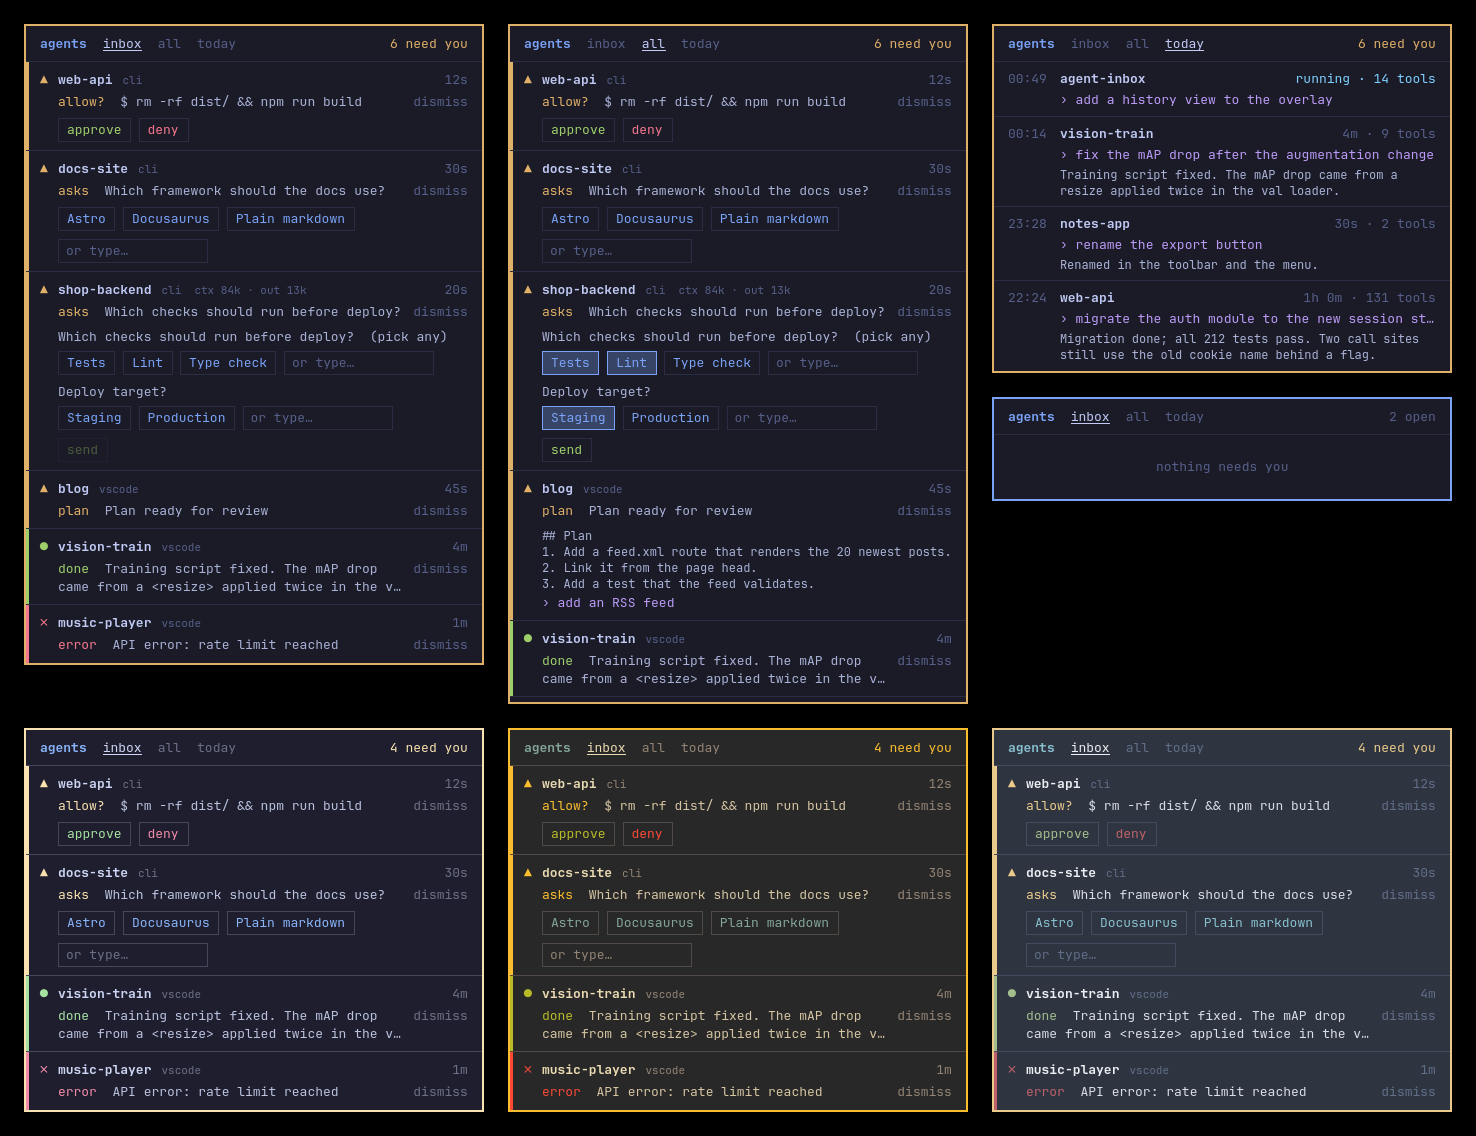
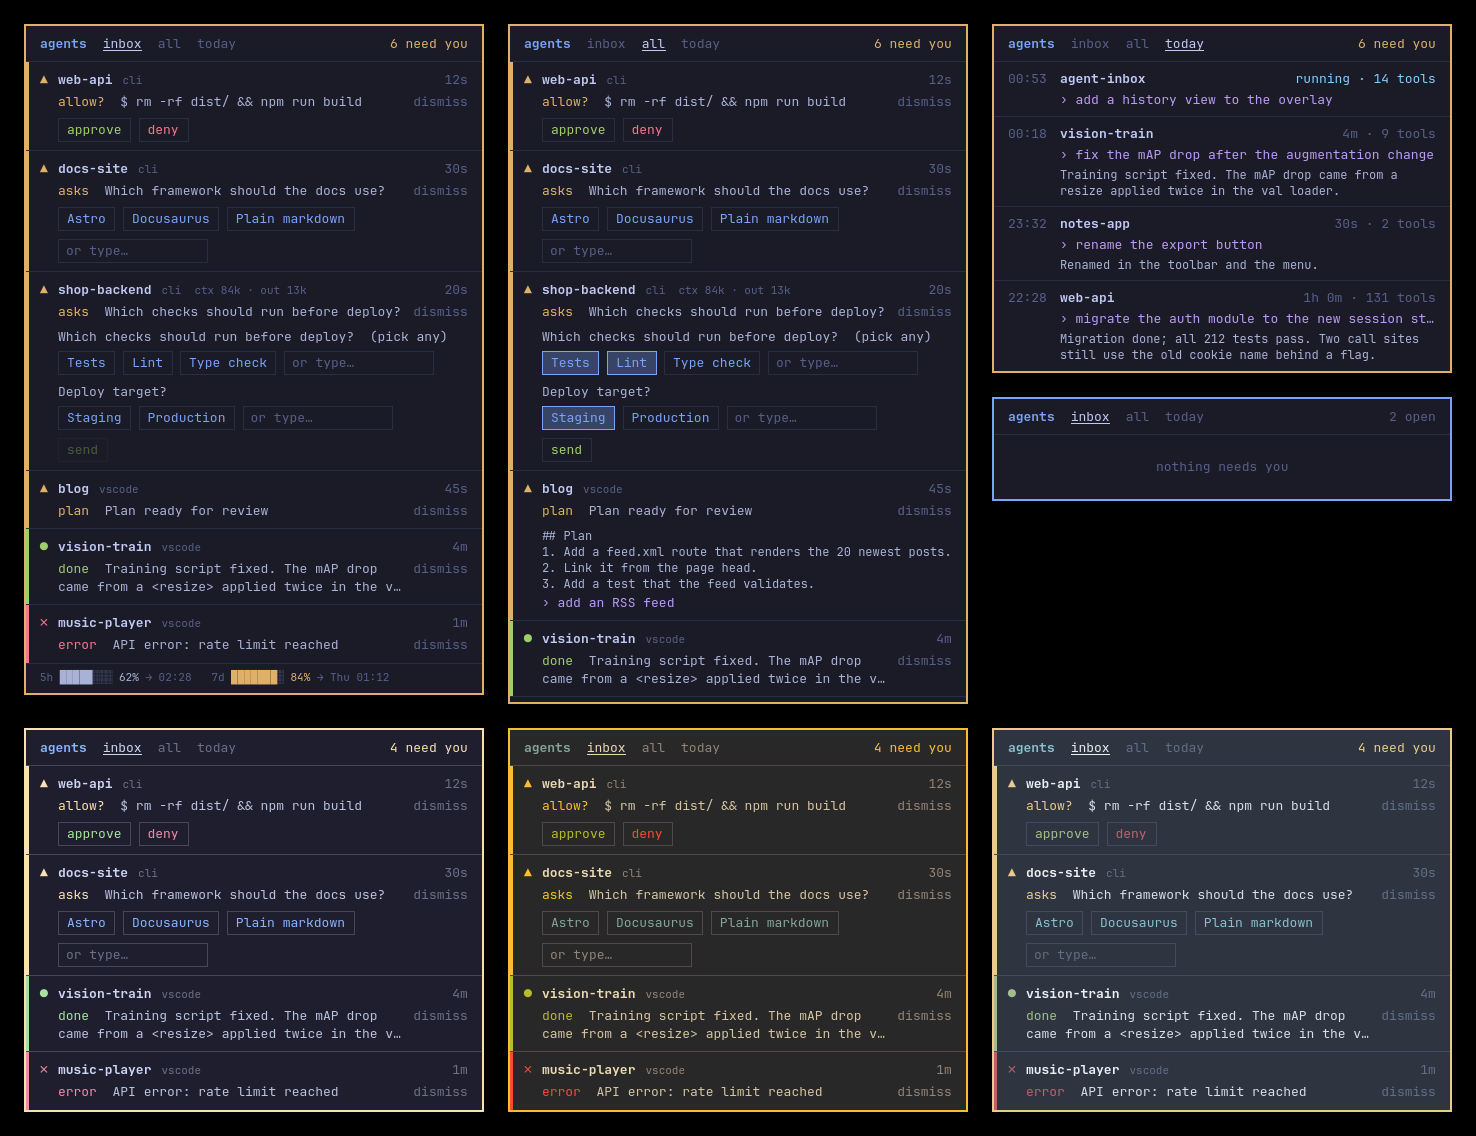
Plan usage: status line script, overlay footer, warning at a threshold
Claude Code only exposes plan usage to a status line command, so the
installer adds one (unless the user already has their own). It prints
model, context and usage, and forwards the numbers to the daemon. The
overlay shows 5-hour and 7-day usage bars and a notification fires when
usage crosses usage_warn.

Changed region(s): [[0.0, 0.5854, 0.3428, 0.6162]]

diff --git a/ui/Panel.qml b/ui/Panel.qml
@@ -7,6 +7,7 @@ Rectangle {
     property var sessions: []
     property string view: "inbox"   // inbox | all | today
     property var history: []        // today's turns, newest first (only filled in the today view)
+    property var limits: ({})       // plan usage: five_hour / seven_day -> {pct, resets_at}, plus warn
     property int maxBody: 640       // the list scrolls beyond this height
     property var open: ({})         // session id -> expanded
     signal command(string cmd, string session, string label)
@@ -69,6 +70,15 @@ Rectangle {
     function dur(s) {
         s = Math.max(0, Math.round(s))
         return s < 60 ? s + "s" : s < 3600 ? Math.floor(s / 60) + "m" : Math.floor(s / 3600) + "h " + Math.floor(s % 3600 / 60) + "m"
+    }
+    function usage(key, name) {
+        const w = limits[key]
+        if (!w) return ""
+        const cells = Math.min(8, Math.round(w.pct / 12.5))
+        const col = w.pct >= 95 ? cRed : w.pct >= (limits.warn || 80) ? cAmber : cSoft
+        const day = key === "seven_day" ? ["Sun", "Mon", "Tue", "Wed", "Thu", "Fri", "Sat"][new Date(w.resets_at * 1000).getDay()] + " " : ""
+        return name + " <font color='" + col + "'>" + "█".repeat(cells) + "</font>" + "░".repeat(8 - cells)
+             + " <font color='" + col + "'>" + w.pct + "%</font> → " + day + clock(w.resets_at).slice(0, 5)
     }
     function clock(t) { return new Date(t * 1000).toTimeString().slice(0, 8) }
     function esc(t) { return String(t || "").replace(/&/g, "&amp;").replace(/</g, "&lt;").replace(/>/g, "&gt;") }
@@ -293,7 +303,7 @@ Rectangle {
                                 Label {
                                     anchors.left: name.right; anchors.leftMargin: 10; anchors.baseline: name.baseline
                                     text: (row.s.entry || "").replace("claude-", "") + (row.s.subagents ? "  +" + row.s.subagents + " agents" : "")
-                                          + (row.s.ctx_tokens ? "  ctx " + panel.k(row.s.ctx_tokens) + " · out " + panel.k(row.s.out_tokens) : "")
+                                          + (row.s.ctx_tokens ? "  ctx " + panel.k(row.s.ctx_tokens) + (row.s.ctx_pct ? " " + row.s.ctx_pct + "%" : "") + " · out " + panel.k(row.s.out_tokens) : "")
                                     color: panel.cDim; font.pixelSize: 11
                                 }
                                 Label {
@@ -482,6 +492,21 @@ Rectangle {
                         }
                     }
                 }
+            }
+        }
+
+        // ---- plan usage
+        Item {
+            visible: !!(panel.limits.five_hour || panel.limits.seven_day)
+            width: parent.width; height: 30
+            Rectangle { width: parent.width; height: 1; color: panel.cLine }
+            Label {
+                x: 14; width: parent.width - 28
+                anchors.verticalCenter: parent.verticalCenter
+                textFormat: Text.StyledText
+                font.pixelSize: 11; color: panel.cDim
+                elide: Text.ElideRight
+                text: [panel.usage("five_hour", "5h"), panel.usage("seven_day", "7d")].filter(x => x).join("&nbsp;&nbsp;&nbsp;")
             }
         }
     }

diff --git a/ui/Preview.qml b/ui/Preview.qml
@@ -55,7 +55,7 @@ Window {
         padding: 24; spacing: 24
         Row {
             spacing: 24
-            Panel { sessions: win.mock; view: "inbox" }
+            Panel { sessions: win.mock; view: "inbox"; limits: ({ five_hour: { pct: 62, resets_at: win.t + 5400 }, seven_day: { pct: 84, resets_at: win.t + 260000 }, warn: 80 }) }
             Panel { sessions: win.mock; view: "all"; open: ({ c3: true, h8: true }); picks: ({ g7: [["Tests", "Lint"], ["Staging"]] }) }
             Column {
                 spacing: 24

diff --git a/ui/Overlay.qml b/ui/Overlay.qml
@@ -31,6 +31,7 @@ Window {
         id: panel
         sessions: backend.sessions
         history: backend.history
+        limits: backend.limits
         theme: backend.config.theme || "tokyo-night"
         width: backend.config.width || 460
         fontFamily: backend.config.font || ""

diff --git a/daemon/daemon.py b/daemon/daemon.py
@@ -3,6 +3,7 @@
 
 One unix socket, newline-delimited JSON. The first line of a connection sets its role:
   {"kind":"event","event":{...}}         from the hook script
+  {"kind":"status","status":{...}}       from the status line script: plan usage and context share
   {"kind":"ask","event":{...}}           a PermissionRequest; the hook waits for {"decision":...} or EOF
   {"kind":"cmd","cmd":"toggle",...}      one command, one snapshot reply
   {"kind":"subscribe","role":"overlay"}  snapshot on every change; further lines are commands
@@ -35,6 +36,7 @@ DEFAULTS = {
     "done_min_turn": 30,  # s a turn must run before "finished" counts as needing you
     "keep_days": 14,  # event log retention
     "sound": True,  # play a short sound when the overlay pops up
+    "usage_warn": 80,  # % of the 5-hour or 7-day plan limit that triggers a warning
     "theme": "tokyo-night",  # tokyo-night | catppuccin | gruvbox | nord
 }
 STALE_HOURS = 6  # drop sessions with unknown pid after this long without events
@@ -85,6 +87,8 @@ class Daemon:
         self.usage = {}  # session id -> {"pos", "out", "ctx", "at"}: transcript reading state
         self.pending = {}  # session id -> {"fut", "ts", "input"}: a hook waiting for an answer
         self.ui = {"visible": False, "view": "inbox", "auto": False}  # view: inbox | all | today
+        self.limits = {}  # "five_hour" / "seven_day" -> {"pct", "resets_at"}, from the status line
+        self.warned = {}  # window -> resets_at already warned about
         self.history = []  # today's turns, only kept fresh while the "today" view is open
 
     # ---- state out
@@ -95,6 +99,7 @@ class Daemon:
             "type": "state", "now": time.time(), "ui": self.ui, "config": look,
             "sessions": [asdict(s) for s in ss],
             "history": self.history if self.ui["view"] == "today" else [],
+            "limits": {**{k: w for k, w in self.limits.items() if w["resets_at"] > time.time()}, "warn": self.cfg["usage_warn"]},
         }  # fmt: skip
 
     def load_history(self):
@@ -185,6 +190,29 @@ class Daemon:
                 asyncio.get_running_loop().call_later(delay, self.alert, sid, s.attention["ts"])
         self.settle()
         self.broadcast()
+
+    def on_status(self, st):
+        """Plan usage is account-wide, so the latest report from any session wins."""
+        before = json.dumps(self.limits)
+        for key, name in (("five_hour", "5-hour"), ("seven_day", "7-day")):
+            w = (st.get("rate_limits") or {}).get(key)
+            if not isinstance(w, dict) or w.get("used_percentage") is None:
+                continue
+            pct, resets = round(float(w["used_percentage"])), w.get("resets_at") or 0
+            self.limits[key] = {"pct": pct, "resets_at": resets}
+            if pct >= self.cfg["usage_warn"] and self.warned.get(key) != resets:
+                self.warned[key] = resets
+                when = time.strftime("%a %H:%M", time.localtime(resets))
+                asyncio.ensure_future(notify(f"Claude usage: {name} limit at {pct}%", f"Resets {when}"))
+                if self.cfg["sound"]:
+                    asyncio.ensure_future(play("dialog-warning"))
+        s = self.sessions.get(st.get("session_id"))
+        ctx = st.get("ctx_pct")
+        changed = json.dumps(self.limits) != before
+        if s and ctx is not None and s.ctx_pct != round(ctx):
+            s.ctx_pct, changed = round(ctx), True
+        if changed:
+            self.broadcast()
 
     def read_usage(self, s, path, now, force):
         """Token counts from the session transcript, read incrementally."""
@@ -321,6 +349,8 @@ class Daemon:
             kind = m.get("kind")
             if kind == "event":
                 self.on_event(m.get("event") or {})
+            elif kind == "status":
+                self.on_status(m.get("status") or {})
             elif kind == "ask":
                 await self.ask(m.get("event") or {}, r, w)
             elif kind == "cmd":

diff --git a/install.py b/install.py
@@ -23,9 +23,11 @@ DAEMON_UNIT = UNITS / "agent-inbox.service"
 OVERLAY_UNIT = UNITS / "agent-inbox-overlay.service"
 LINK = HOME / ".local/bin/agent-inbox"
 MARK = "agent_inbox_hook.py"
+STATUS_MARK = "agent_inbox_statusline.py"
 # The system interpreter is the one distro PySide6 packages install into.
 PY = "/usr/bin/python3" if os.path.exists("/usr/bin/python3") else sys.executable
 CMD = f"{PY} -I -S {shlex.quote(str(ROOT / 'hook' / MARK))} || true"
+STATUS_CMD = f"{PY} -I -S {shlex.quote(str(ROOT / 'hook' / STATUS_MARK))}"
 EVENTS = [
     "SessionStart", "UserPromptSubmit", "PreToolUse", "PermissionRequest", "PermissionDenied",
     "PostToolUse", "PostToolUseFailure", "Notification", "SubagentStart", "SubagentStop",
@@ -60,8 +62,19 @@ def edit_hooks(add):
         settings["hooks"] = hooks
     else:
         settings.pop("hooks", None)
+    # Plan usage only reaches us through the status line. Never replace someone's own.
+    line = settings.get("statusLine")
+    ours = isinstance(line, dict) and STATUS_MARK in line.get("command", "")
+    kept_other = False
+    if add and (line is None or ours):
+        settings["statusLine"] = {"type": "command", "command": STATUS_CMD}
+    elif add:
+        kept_other = True
+    elif ours:
+        del settings["statusLine"]
     SETTINGS.parent.mkdir(parents=True, exist_ok=True)
     SETTINGS.write_text(json.dumps(settings, indent=2) + "\n")
+    return kept_other
 
 
 def check():
@@ -115,7 +128,11 @@ def install():
     LINK.parent.mkdir(parents=True, exist_ok=True)
     LINK.unlink(missing_ok=True)
     LINK.symlink_to(ROOT / "bin/agent-inbox")
-    edit_hooks(add=True)
+    if edit_hooks(add=True):
+        problems.append(
+            "You already have a custom status line, so it was left alone and the plan-usage display is off. "
+            f"To turn it on, pipe your status line's input through {ROOT / 'hook' / STATUS_MARK} as well."
+        )
     print(f"Installed.\n  hooks:    {SETTINGS} (backup: {BACKUP.name})\n  services: {', '.join(units)}\n  command:  {LINK}")
     print("Bind `agent-inbox toggle` to a key to show and hide the overlay.")
     for p in problems:

diff --git a/hook/agent_inbox_statusline.py b/hook/agent_inbox_statusline.py
@@ -1,0 +1,40 @@
+#!/usr/bin/python3
+"""Claude Code status line: prints model, context and plan usage, and passes the
+plan usage on to the agent-inbox daemon (the status line is the only place Claude
+Code exposes it).
+"""
+import json
+import os
+import socket
+import sys
+
+SOCK = os.environ.get("XDG_RUNTIME_DIR", f"/run/user/{os.getuid()}") + "/agent-inbox.sock"
+
+
+def main():
+    d = json.load(sys.stdin)
+    limits = d.get("rate_limits") or {}
+    ctx = (d.get("context_window") or {}).get("used_percentage")
+    parts = [(d.get("model") or {}).get("display_name") or "Claude"]
+    if ctx is not None:
+        parts.append(f"ctx {ctx:.0f}%")
+    for key, name in (("five_hour", "5h"), ("seven_day", "7d")):
+        pct = (limits.get(key) or {}).get("used_percentage")
+        if pct is not None:
+            parts.append(f"{name} {pct:.0f}%")
+    print(" · ".join(parts), flush=True)
+
+    status = {"session_id": d.get("session_id"), "rate_limits": limits, "ctx_pct": ctx}
+    s = socket.socket(socket.AF_UNIX, socket.SOCK_STREAM)
+    s.settimeout(1)
+    s.connect(SOCK)
+    s.sendall((json.dumps({"kind": "status", "status": status}) + "\n").encode())
+    s.close()
+
+
+if __name__ == "__main__":
+    try:
+        main()
+    except BaseException:
+        pass
+    sys.exit(0)

diff --git a/ui/overlay.py b/ui/overlay.py
@@ -19,6 +19,7 @@ class Backend(QObject):
     def __init__(self):
         super().__init__()
         self._sessions, self._visible, self._view, self._config, self._history = [], False, "inbox", {}, []
+        self._limits = {}
         self.sock = QLocalSocket(self)
         self.sock.connected.connect(lambda: self._write({"kind": "subscribe", "role": "overlay"}))
         self.sock.readyRead.connect(self._read)
@@ -46,6 +47,7 @@ class Backend(QObject):
                 self._view = snap["ui"]["view"]
                 self._config = snap.get("config") or {}
                 self._history = snap.get("history") or []
+                self._limits = snap.get("limits") or {}
         self.changed.emit()
 
     def _write(self, msg):
@@ -55,6 +57,10 @@ class Backend(QObject):
     @Property("QVariantList", notify=changed)
     def sessions(self):
         return self._sessions
+
+    @Property("QVariantMap", notify=changed)
+    def limits(self):
+        return self._limits
 
     @Property("QVariantList", notify=changed)
     def history(self):

diff --git a/daemon/state.py b/daemon/state.py
@@ -73,6 +73,7 @@ class Session:
     subagents: int = 0
     ctx_tokens: int = 0  # size of the context sent with the latest request
     out_tokens: int = 0  # output tokens over the whole session
+    ctx_pct: int = 0  # share of the context window in use, from the status line
     ended: bool = False
 
     @classmethod

diff --git a/README.md b/README.md
@@ -10,6 +10,7 @@ A floating overlay for Linux that shows what your open Claude Code sessions are 
 - **Token counts.** Each card shows the session's current context size and total output tokens.
 - **Today.** A third tab lists today's turns across all projects: when, how long, how many tool calls, the prompt and how it ended.
 - **Themes.** Tokyo Night, Catppuccin, Gruvbox and Nord.
+- **Plan usage.** On Pro and Max plans the overlay shows how much of the 5-hour and 7-day limits you have used, and warns you when you cross a threshold.
 - **Stays out of the way.** Sits above other windows, only takes keyboard focus when you click a reply box, hides itself when nothing needs you.
 - **Local only.** One unix socket, no network port, no telemetry.
 
@@ -42,6 +43,7 @@ This does three things, all reversed by `python3 install.py uninstall`:
 | Change | Where |
 |---|---|
 | Hook entries (your existing settings are kept, a backup is made first) | `~/.claude/settings.json` |
+| A status line showing model, context and plan usage (only if you have none) | `~/.claude/settings.json` |
 | Two user services: daemon and overlay | `~/.config/systemd/user/agent-inbox*.service` |
 | The `agent-inbox` command | `~/.local/bin/agent-inbox` |
 
@@ -104,7 +106,8 @@ Optional. Create `~/.config/agent-inbox/config.json` with any of these keys (def
   "done_min_turn": 30,
   "keep_days": 14,
   "sound": true,
-  "theme": "tokyo-night"
+  "theme": "tokyo-night",
+  "usage_warn": 80
 }
 ```
 
@@ -114,6 +117,7 @@ Optional. Create `~/.config/agent-inbox/config.json` with any of these keys (def
 - `done_min_turn`: seconds a turn must run before "finished" counts as needing you.
 - `keep_days`: how long the event log is kept.
 - `theme`: `tokyo-night`, `catppuccin`, `gruvbox` or `nord`.
+- `usage_warn`: percentage of the 5-hour or 7-day plan limit at which you get a warning notification.
 - `sound`: play a short sound when the overlay pops up (needs `pw-play` or `paplay` and the freedesktop sound theme).
 
 ## How it works
@@ -125,6 +129,10 @@ Claude Code hooks -> hook/agent_inbox_hook.py -> unix socket -> daemon/daemon.py
 - **Hook script.** Forwards each hook event to the daemon and exits. It runs in the background, takes about 15 ms, and exits cleanly if the daemon is not running, so it never slows or blocks the agent. The one hook that waits is the permission request: it holds on for an answer from the overlay while Claude Code shows its own prompt as usual.
 - **Daemon.** Keeps one state per session (`daemon/state.py`, a small pure state machine), decides what needs attention and when to pop the overlay up, and removes sessions whose process has gone.
 - **Overlay.** A PySide6/QML window placed with layer-shell. `ui/Panel.qml` is the whole look; `ui/Preview.qml` renders it with sample data.
+
+## Plan usage and the status line
+
+Claude Code only exposes plan usage to a status line script, so the installer sets one up: a row at the bottom of each terminal session such as `Fable 5.2 · ctx 34% · 5h 62% · 7d 41%`. The same numbers appear at the bottom of the overlay. They show up after a session's first response, and only on claude.ai subscription plans. If you already have a status line it is left untouched and this feature stays off. To remove ours, delete the `statusLine` entry from `~/.claude/settings.json`.
 
 ## Privacy
 
